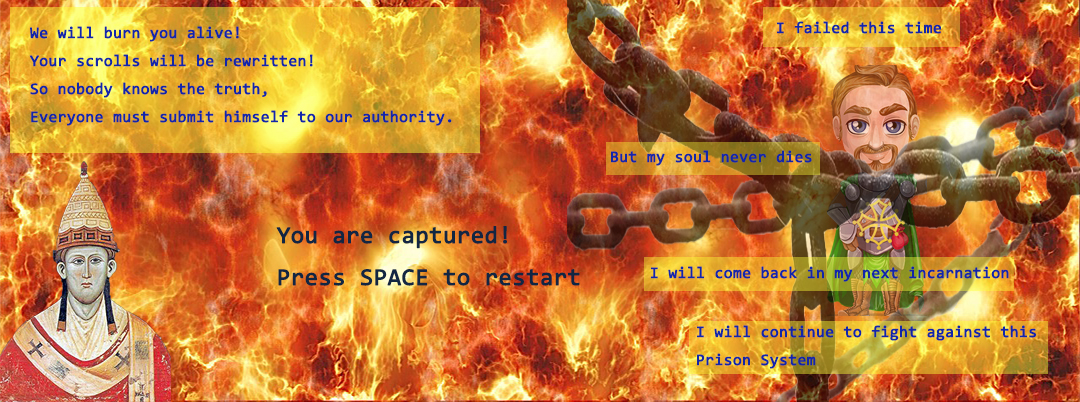
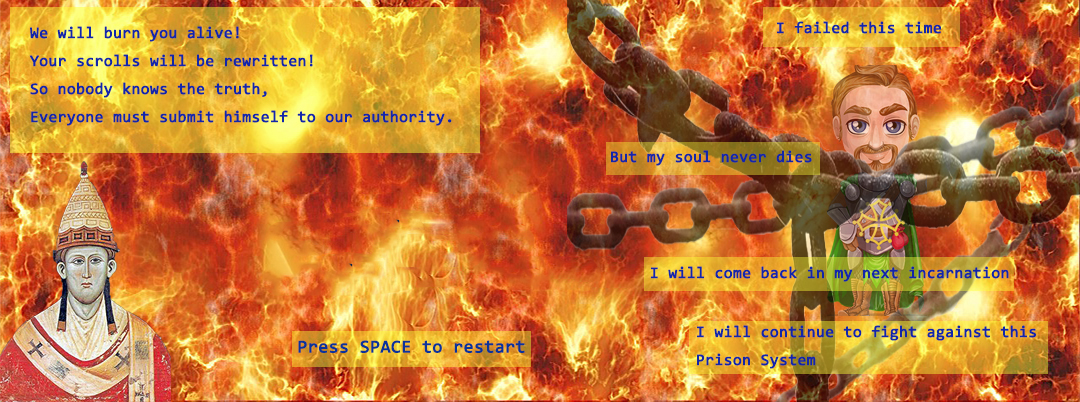
P3: added gameOver screen and change display

Changed region(s): [[0.2444, 0.5075, 0.55, 0.7463], [0.2444, 0.806, 0.4889, 0.9254]]

diff --git a/exercises/project3/js/script.js b/exercises/project3/js/script.js
@@ -6,7 +6,7 @@
 
 // display information
 let player1Info;
-
+let failReason;
 
 let killer=[];
 let cathari;
@@ -14,7 +14,7 @@ let scrolls=[];
 let keys=[];
 let ball;
 let arrow;
-let bcWidth=3000;
+let bcWidth=2500;
 let section2;
 let scrollImg;
 
@@ -30,7 +30,7 @@ let frontImg; // front image
 let instructionImg;
 let catharsInfoImg;
 let shieldImg;
-
+let winImg;
 let triImg;
 let fireImg;
 let keyImg;
@@ -73,6 +73,7 @@ function preload() {
   shieldImg=loadImage("./images/shield.png");
   gameOverImg=loadImage("./images/endtime.jpg");
   info=loadImage("./images/info.jpg");
+  winImg=loadImage("./images/final.png");
 }
 
 // function set up
@@ -254,9 +255,10 @@ function draw() {
     else{
       clear();
      if(bcWidth>0&&!cathari.shieldActive){
-     bcWidth=bcWidth-0.2;}
+     bcWidth=bcWidth-0.5;}
+
      imageMode(CORNER);
-    image(section2,-bcWidth,0,width+3000,height);
+    image(section2,-bcWidth,0,width+2500,height);
 
     instruction();
 
@@ -286,14 +288,14 @@ function draw() {
      cathari.display();
      cathari.move();
      arrow.collisionCheck(cathari);
-
+      checkResult();
 
 }
    }
  else if(gameState===5){
    imageMode(CORNER);
     image(gameOverImg,0,0,width,height);
-
+ explain();
     if(keyIsDown(32)) {
       clear();
       setupArrays();
@@ -304,10 +306,18 @@ function draw() {
       scrolls.length=5;
       keys.length=12;
       rotateTri.length=25;
+      cathari.keyCount=0;
+      bcWidth=2500;
 
     }
 
  }
+ else if(gameState===6){
+  clear();
+ winScreen();
+
+ }
+
 
   }
 
@@ -335,13 +345,58 @@ function draw() {
          textSize(24);
          let content;
          if(cathari.keyCount<12){
-       content="You have got keys: "+cathari.keyCount;
+       content="You have got keys: "+cathari.keyCount+"   Distance: "+ bcWidth;
      }
 
-       else{content="Congratulations! You have got all keys";}
+       else{content="Congratulations! You have got all keys"+ "   Distance: "+ bcWidth;}
       // console.log(cathari.keyCount);
 
 
  text(content,width/2,50);
+
+  }
+
+  function explain(){
+     fill(random(0,255));
+     textSize(30);
+     text(failReason,width/5,height/1.8);
+
+
+  }
+
+  function checkResult(){
+    if(bcWidth<10){
+      if(cathari.keyCount>11){
+  gameState=6;}
+
+else {gameState=5;
+     bcWidth=2500;
+      failReason="Oops!You dont get enough keys\n " +"when you arrive at the destination\n"
+                  +"So you are trapped here\n" + "And you are captured!";
+
+}
+
+  }
+}
+  function winScreen() {
+
+    noStroke();
+    imageMode(CORNER);
+    image(winImg, 0, 0, width, height); // backgorund image
+    image(catharImg, random(width / 3.5, width / 1.2), height / 2, 100, 200); ///display winner's image and make it move
+    fill(random(120, 255), random(126, 200), 252); // random color
+    textSize(40);
+    textAlign(CENTER, CENTER);
+    text("Congratulations for your successful escape!\n", width / 2, height / 2.5); // show winner
+    fill(255);
+    textSize(20);
+    textAlign(CENTER, CENTER);
+    let finaltext=" I have got " + cathari.getCount+ " scrolls\n"+
+                   "Now I will bury them under the mountain where no villain can enter\n"
+                   +"And one day they should be discovered again!";
+    text(finaltext, width / 2, 100);
+
+
+
 
   }

diff --git a/exercises/project3/js/Arrows.js b/exercises/project3/js/Arrows.js
@@ -32,7 +32,7 @@ move(){
       this.dodges = this.dodges + 1;
       // Reset the enemy's position to the left at a random height
       this.x = 0;
-      this.y = random(0,height);
+      this.y = random(20,height);
     }
 
 
@@ -41,7 +41,7 @@ move(){
 
  speedUpdate(){
 // change the speed of enermy when players make dodges
-  if(this.speed<60 && this.speed>0){           // set the max speed of enermy to 60
+  if(this.speed<30 && this.speed>0){           // set the max speed of enermy to 60
     	this.speed=this.orignalSpeed+0.5*this.dodges;  // rate of increased speed
 
       }
@@ -56,13 +56,14 @@ collisionCheck(cathar){
   let d = dist(this.x, this.y, cathar.x, cathar.y);
 
   // Check if the distance is less than their two radii (an overlap)
-  if (d < this.size + cathar.size) {
+  if (d < this.size/2 + cathar.size/2) {
     if(cathar.shieldActive){
       this.x = 0;
-      this.y = random(0,height);
+      this.y = random(20,height);
 
   }
-    else{gameState=5;}
+    else{gameState=5;
+        failReason="Oops!You are shoot by an arrow \n"+ "so you are captured!";}
 
 }
 

diff --git a/exercises/project3/js/Cathari.js b/exercises/project3/js/Cathari.js
@@ -98,16 +98,16 @@ class Cathari {
   // wraps it to the other side if so
   handleWrapping() {
     // Off the left or right
-    if (this.x < 0) {
-      this.x += width;
+    if (this.x < 30) {
+      this.x = 30;
     } else if (this.x > width) {
-      this.x -= width;
+      this.x = width;
     }
     // Off the top or bottom
-    if (this.y < 0) {
-      this.y += height;
+    if (this.y < 30) {
+      this.y = 30;
     } else if (this.y > height) {
-      this.y -= height;
+      this.y = height;
     }
   }
 

diff --git a/exercises/project3/js/Killer.js b/exercises/project3/js/Killer.js
@@ -97,6 +97,7 @@ class Killer { //set elites properties
         // Increase candidates power and constrain it to its possible range
         //cathari.isFailed=true;
         gameState=5;
+        failReason="Oops! You are captured by a soldier!";
         this.reset();
 
 }
